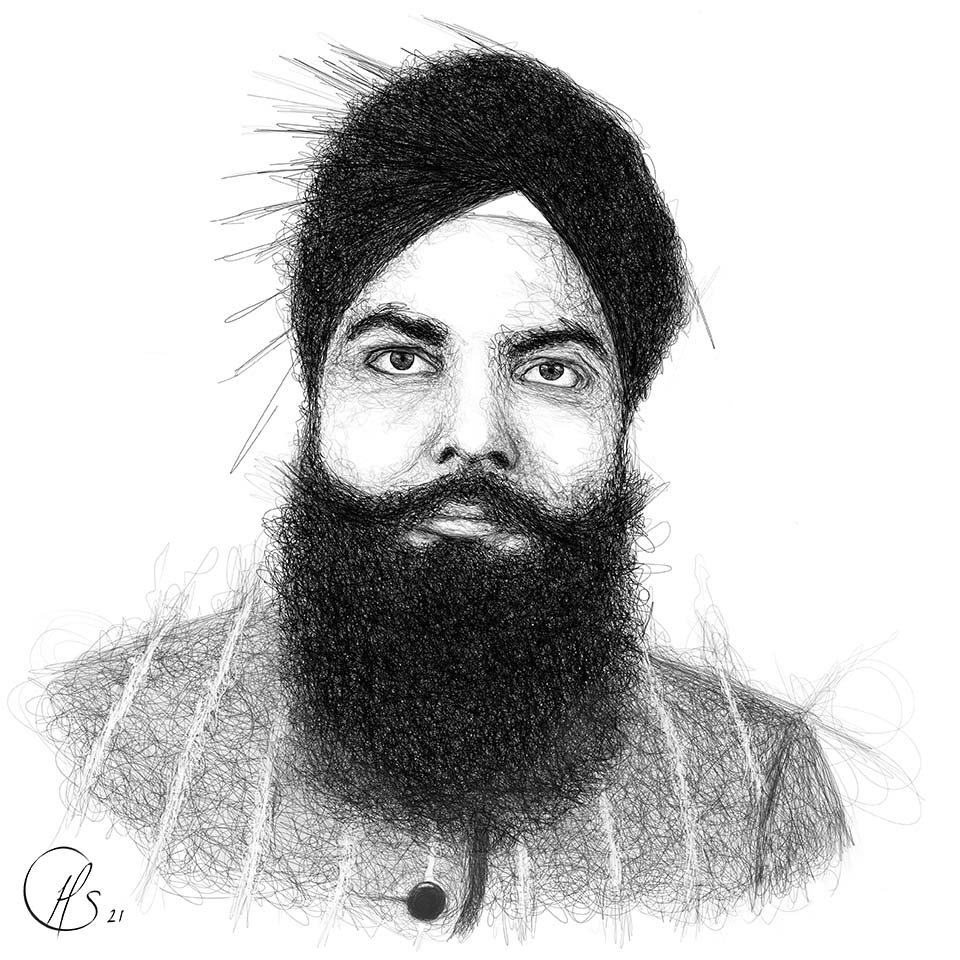
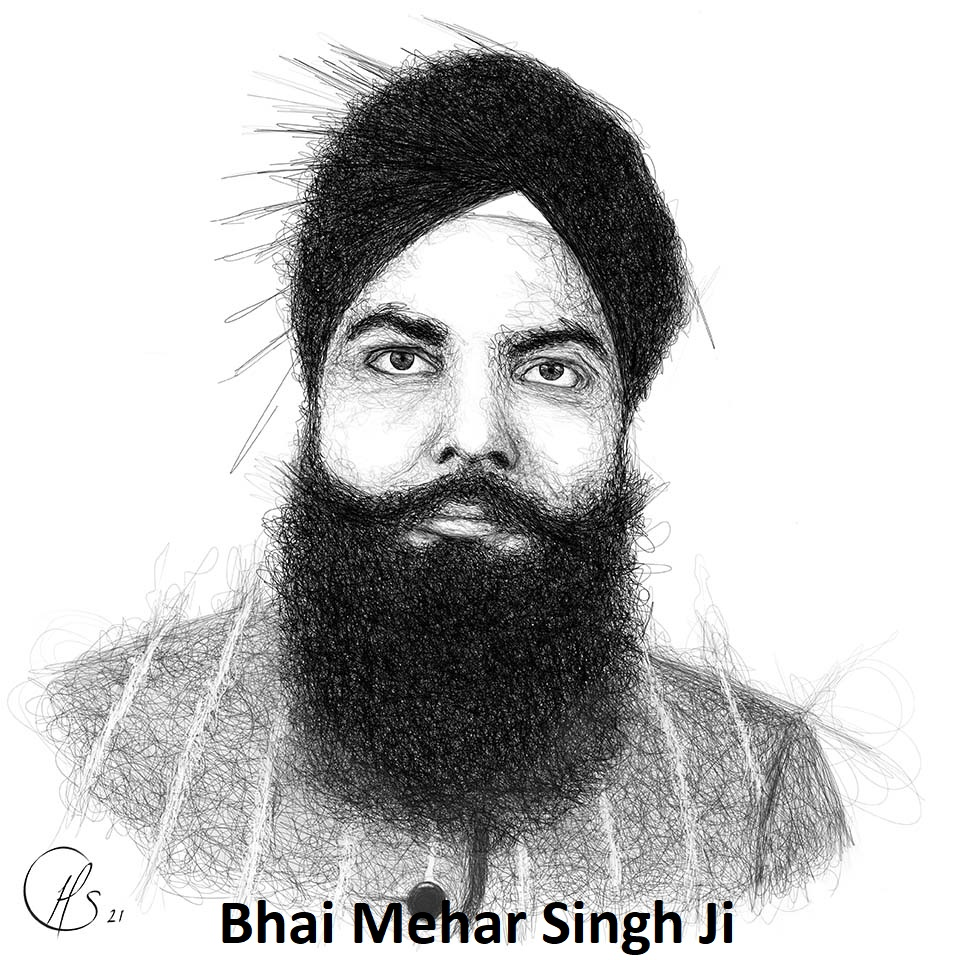
adding names to pictures

Changed region(s): [[0.2188, 0.9375, 0.7812, 1.0]]

diff --git a/jeevan-kirtan.html b/jeevan-kirtan.html
@@ -33,7 +33,7 @@
    
           <div class="main-image-wrapper" id="box">
             <!--main image-->
-            <img src="images/jeevan.jpg" class="main-image" width="400px" height="400px">
+            <img src="images/JEEVAN W2.jpg" class="main-image" width="400px" height="400px">
           </div>
           <div class="main-title m-5">
             <h1>BHAI JEEVAN SINGH</h1>

diff --git a/bham-1996.html b/bham-1996.html
@@ -32,7 +32,7 @@
    
           <div class="main-image-wrapper" id="box">
             <!--main image-->
-            <img src="images/smagam2.jpg" class="main-image" width="400px" height="400px">
+            <img src="images/smagamm2.jpg" class="main-image" width="400px" height="400px">
           </div>
           <div class="main-title m-5">
             <!--Main Title-->

diff --git a/jasbir-kirtan.html b/jasbir-kirtan.html
@@ -32,7 +32,7 @@
    
           <div class="main-image-wrapper" id="box">
             <!--main image-->
-            <img src="images/jasbir.jpg" class="main-image" width="400px" height="400px">
+            <img src="images/JASBIR W1.jpg" class="main-image" width="400px" height="400px">
           </div>
           <div class="main-title m-5">
             <!--Main Title-->

diff --git a/amolak-kirtan.html b/amolak-kirtan.html
@@ -31,7 +31,7 @@
 
           <div class="main-image-wrapper" id="box">
             <!-- Main image -->
-            <img src="images/amolak.jpg" class="main-image" width="400px" height="400px">
+            <img src="images/AMOLAK W2.jpg" class="main-image" width="400px" height="400px">
           </div>
           <div class="main-title m-5">
             <!--Main title-->

diff --git a/slough-1995.html b/slough-1995.html
@@ -32,7 +32,7 @@
    
           <div class="main-image-wrapper" id="box">
             <!--main image-->
-            <img src="images/smagam.jpg" class="main-image" width="400px" height="400px">
+            <img src="images/smagamm.jpg" class="main-image" width="400px" height="400px">
           </div>
           <div class="main-title m-5">
             <!--Main Title-->

diff --git a/sdo-kirtan.html b/sdo-kirtan.html
@@ -32,7 +32,7 @@
    
           <div class="main-image-wrapper" id="box">
             <!--main image-->
-            <img src="images/sdo.jpg" class="main-image" width="400px" height="400px">
+            <img src="images/SDO W1.jpg" class="main-image" width="400px" height="400px">
           </div>
           <div class="main-title m-5">
             <!--main title-->

diff --git a/mehar-kirtan.html b/mehar-kirtan.html
@@ -32,7 +32,7 @@
 
         <div class="main-image-wrapper" id="box">
           <!-- Main image -->
-          <img src="images/mehar.jpg" class="main-image" width="400px" height="400px">
+          <img src="images/MEHAR W2.jpg" class="main-image" width="400px" height="400px">
         </div>
         <div class="main-title m-5">
           <!-- Main title -->
